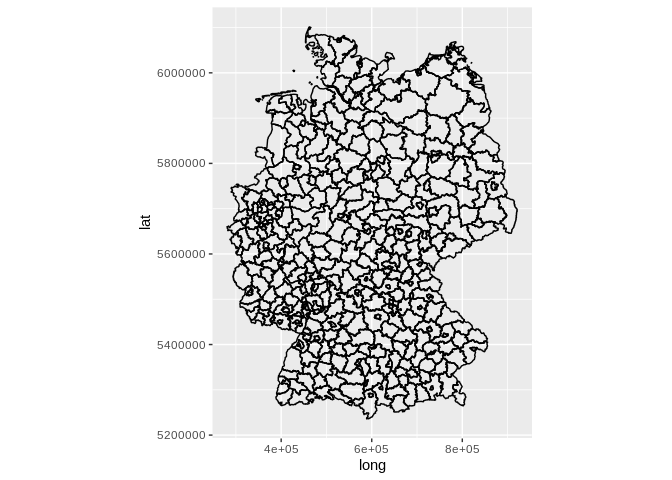
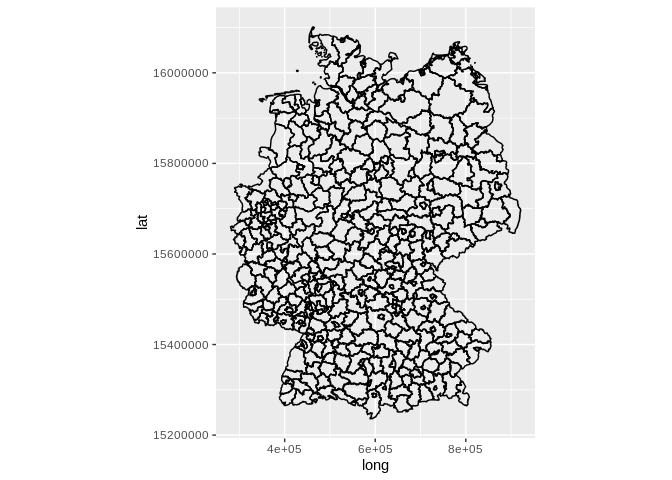
corrected coordinate reference system

diff --git a/README.md b/README.md
@@ -26,7 +26,7 @@ GDZ
 #> 
 #> Local file root: /home/philipp/gdz
 #> 
-#> Available sources: vg250, kfz250, 
+#> Available sources: VG250, VG250_EW, KFZ250, 
 #> 
 #> Reference: http://www.geodatenzentrum.de/
 ```
@@ -34,9 +34,9 @@ GDZ
 ### Sync a datasource
 
 ``` r
-GDZ$sync(source = "vg250")
+GDZ$sync(source = "VG250")
 #> 
-#> Fri Jul 26 20:55:50 2019
+#> Thu Aug 15 22:20:08 2019
 #> Synchronizing dataset: VG250
 #> Source URL http://sg.geodatenzentrum.de/web_download/vg/vg250_0101/utm32s/shape/vg250_0101.utm32s.shape.ebenen.zip
 #> --------------------------------------------------------------------------------------------
@@ -46,13 +46,13 @@ GDZ$sync(source = "vg250")
 #>  downloading file 1 of 1: http://sg.geodatenzentrum.de/web_download/vg/vg250_0101/utm32s/shape/vg250_0101.utm32s.shape.ebenen.zip ...  file unchanged on server, not downloading.
 #>   decompressing: /home/philipp/gdz/sg.geodatenzentrum.de/web_download/vg/vg250_0101/utm32s/shape/vg250_0101.utm32s.shape.ebenen.zip ... no new files to extract (not overwriting existing files) ... done.
 #> 
-#> Fri Jul 26 20:55:50 2019 dataset synchronization complete: VG250
+#> Thu Aug 15 22:20:09 2019 dataset synchronization complete: VG250
 ```
 
 ### List downloaded files
 
 ``` r
-GDZ$files(collection = "vg250")
+GDZ$files(collection = "VG250")
 #>  [1] "/home/philipp/gdz/sg.geodatenzentrum.de/web_download/vg/vg250_0101/utm32s/shape/vg250_0101.utm32s.shape.ebenen.zip"                                                 
 #>  [2] "/home/philipp/gdz/sg.geodatenzentrum.de/web_download/vg/vg250_0101/utm32s/shape/vg250_0101.utm32s.shape.ebenen/"                                                    
 #>  [3] "/home/philipp/gdz/sg.geodatenzentrum.de/web_download/vg/vg250_0101/utm32s/shape/vg250_0101.utm32s.shape.ebenen/datenlizenz_deutschland_v2_0.pdf"                    
@@ -114,7 +114,7 @@ GDZ$files(collection = "vg250")
 ### List available shp layers
 
 ``` r
-GDZ$shp_layers(collection = "vg250")
+GDZ$shp_layers(collection = "VG250")
 #> [1] "VG250_LAN" "VG250_PK"  "VG250_RBZ" "VG250_LI"  "VG250_GEM" "VG250_VWG"
 #> [7] "VG250_STA" "VG250_KRS"
 ```
@@ -122,7 +122,7 @@ GDZ$shp_layers(collection = "vg250")
 ### Fortify a layer from a collection
 
 ``` r
-krs <- GDZ$fortify(collection = "vg250", layer = "VG250_KRS")
+krs <- GDZ$fortify(collection = "VG250", layer = "VG250_KRS")
 #> Reading layer `VG250_KRS' from data source `/home/philipp/gdz/sg.geodatenzentrum.de/web_download/vg/vg250_0101/utm32s/shape/vg250_0101.utm32s.shape.ebenen/vg250_ebenen' using driver `ESRI Shapefile'
 #> Simple feature collection with 431 features and 23 fields
 #> geometry type:  MULTIPOLYGON
@@ -132,13 +132,13 @@ krs <- GDZ$fortify(collection = "vg250", layer = "VG250_KRS")
 #> proj4string:    +proj=utm +zone=32 +ellps=GRS80 +towgs84=0,0,0,0,0,0,0 +units=m +no_defs
 #> Regions defined for each Polygons
 head(krs)
-#>   id     long     lat order  hole piece group ADE GF BSG    RS   AGS
-#> 1  1 526513.8 6075133     1 FALSE     1   1.1   4  4   1 01001 01001
-#> 2  1 526547.9 6074977     2 FALSE     1   1.1   4  4   1 01001 01001
-#> 3  1 526560.3 6074979     3 FALSE     1   1.1   4  4   1 01001 01001
-#> 4  1 526652.6 6074987     4 FALSE     1   1.1   4  4   1 01001 01001
-#> 5  1 526733.6 6075032     5 FALSE     1   1.1   4  4   1 01001 01001
-#> 6  1 526852.8 6075060     6 FALSE     1   1.1   4  4   1 01001 01001
+#>   id     long      lat order  hole piece group ADE GF BSG    RS   AGS
+#> 1  1 526513.8 16075133     1 FALSE     1   1.1   4  4   1 01001 01001
+#> 2  1 526547.9 16074977     2 FALSE     1   1.1   4  4   1 01001 01001
+#> 3  1 526560.3 16074979     3 FALSE     1   1.1   4  4   1 01001 01001
+#> 4  1 526652.6 16074987     4 FALSE     1   1.1   4  4   1 01001 01001
+#> 5  1 526733.6 16075032     5 FALSE     1   1.1   4  4   1 01001 01001
+#> 6  1 526852.8 16075060     6 FALSE     1   1.1   4  4   1 01001 01001
 #>         SDV_RS       GEN              BEZ IBZ BEM NBD SN_L SN_R SN_K SN_V1
 #> 1 010010000000 Flensburg Kreisfreie Stadt  40  --  ja   01    0   01    00
 #> 2 010010000000 Flensburg Kreisfreie Stadt  40  --  ja   01    0   01    00
